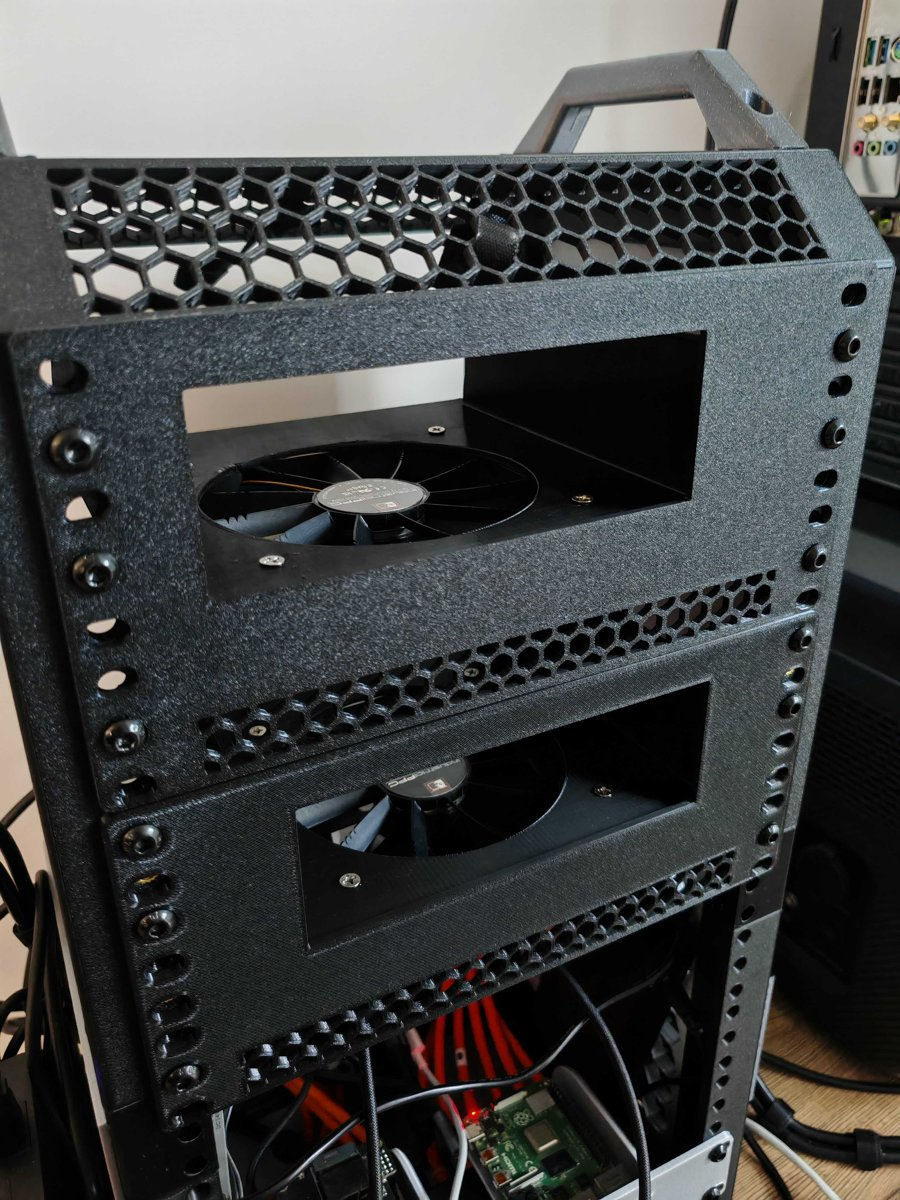
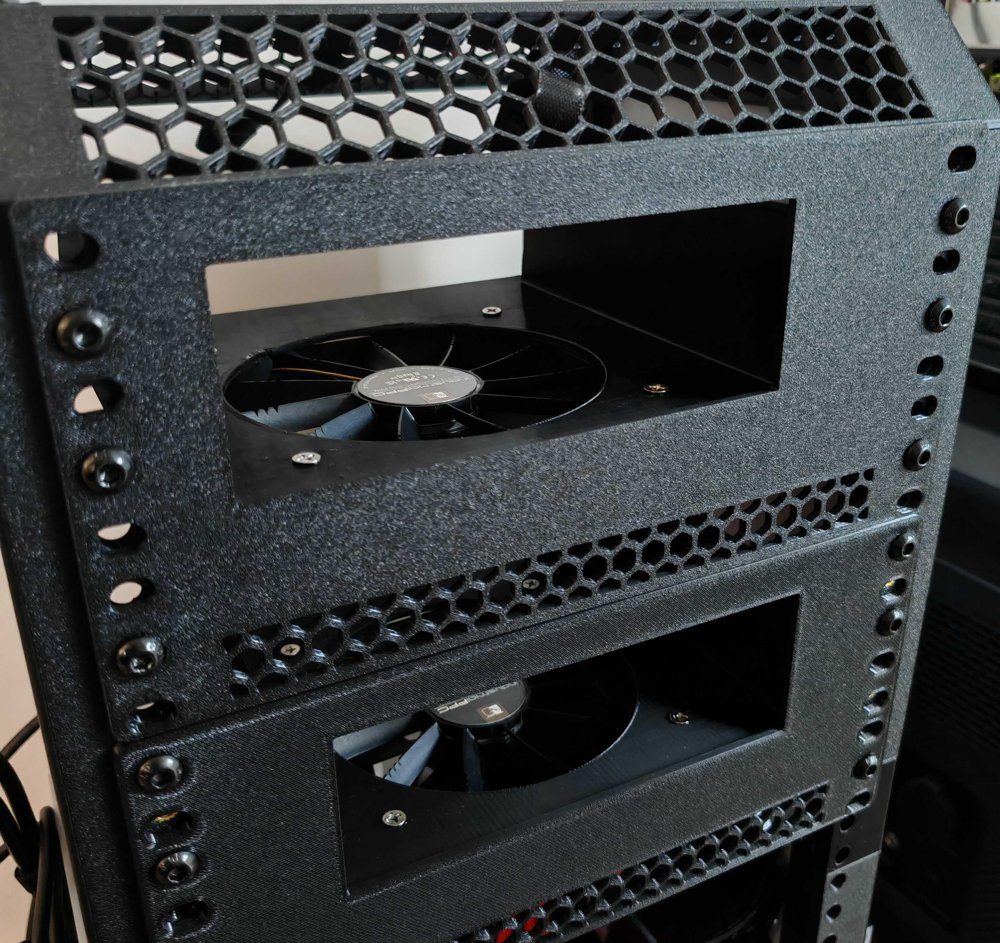
Use cropped rack mount photo showing the fans

diff --git a/README.md b/README.md
@@ -81,7 +81,7 @@ of clearance so the air flows freely.
 
 **➜ Download it on Cults3D: [ASUS Ascent GX10 10" rack mount with 120 mm fan cooling](https://cults3d.com/en/3d-model/gadget/asus-ascent-gx10-10-rack-mount-with-120-mm-fan-cooling)**
 
-<a href="https://cults3d.com/en/3d-model/gadget/asus-ascent-gx10-10-rack-mount-with-120-mm-fan-cooling"><img src="docs/rack-mount.jpg" alt="3D-printed 10-inch rack mount with a 120 mm Noctua fan under each GX10 shelf" width="450"></a>
+<a href="https://cults3d.com/en/3d-model/gadget/asus-ascent-gx10-10-rack-mount-with-120-mm-fan-cooling"><img src="docs/rack-mount.jpg" alt="Two 3D-printed 10-inch rack mounts without the GX10s, a 120 mm Noctua fan in each" width="600"></a>
 
 **Two layouts**
 
